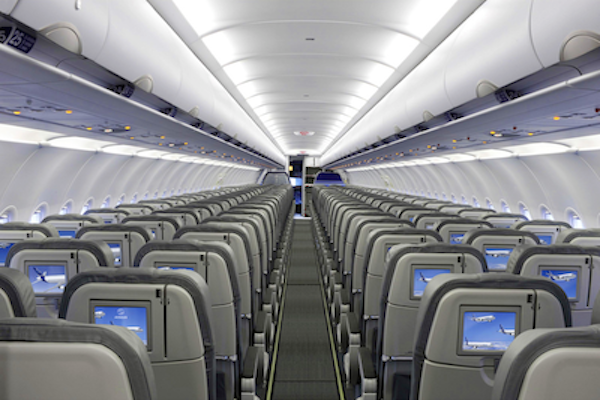
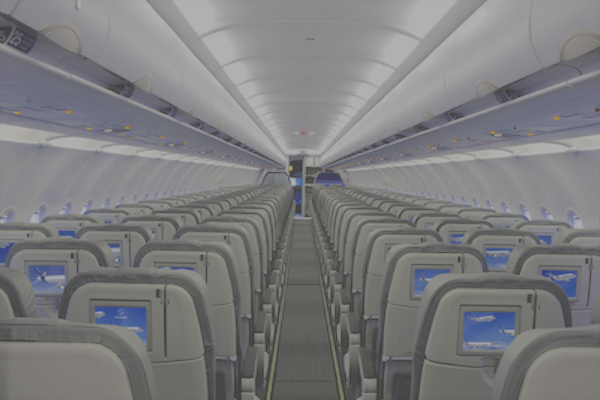
changed brightness on plane pic

diff --git a/styles.css b/styles.css
@@ -42,6 +42,7 @@ h3 {
   width: 60%;
   margin: auto;
 }
+
 #snake-game {
   background: url(images/airplane.png) no-repeat;
 }
@@ -79,4 +80,17 @@ button {
   color: white;
   font-family: 'Indie Flower', cursive;
   font-size: 20px;
+}
+
+@media only screen
+and (min-device-width : 375px)
+and (max-device-width : 667px) {
+  .container {
+    width: 100%;
+    border: 2px solid pink;
+  }
+  #snake-game {
+    width: 100%;
+  }
+
 }

diff --git a/index.html b/index.html
@@ -5,6 +5,7 @@
   <link rel="stylesheet" href="reset.css">
   <link rel="stylesheet" href="styles.css">
   <link href='https://fonts.googleapis.com/css?family=Indie+Flower' rel='stylesheet' type='text/css'>
+  <meta name="viewport" content="width=device-width">
   <title>Snake</title>
 </head>
 <body>
